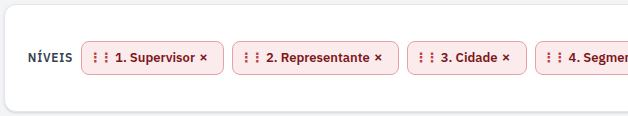
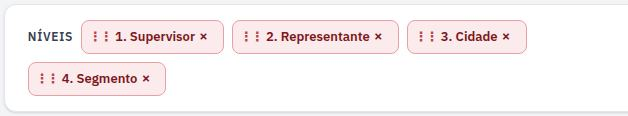
Explorar pedidos: níveis com nome que diz de onde vem a informação
- Supervisor da carteira, Representante do pedido, Representante da carteira, Venda na própria carteira?, Cidade/Segmento/Onda do cliente, Grupo de CNPJ, Tipo/Situação/Mês do pedido
- Excel dos pedidos com os mesmos nomes; Ajuda com os termos novos
- Níveis e disponíveis dividem a linha conforme o tamanho

Changed region(s): [[0.0303, 0.1552, 1.0, 0.8276]]

diff --git a/web/js/telas/_pedidos-excel.js b/web/js/telas/_pedidos-excel.js
@@ -6,13 +6,13 @@ import { baixarXlsx } from '../planilhas.js';
 import { documento, valor } from './_pedidos.js';
 
 const NOME_TIPO = { venda: 'Venda', investimento: 'Bonificação', ignorar: 'Não considerado' };
-const NA_LISTA = { propria: 'Na lista', outra: 'Fora da lista' };
+const NA_LISTA = { propria: 'Sim', outra: 'Não' };
 const COLUNAS = [
   { titulo: 'Pedido', valor: (p) => p.numero, largura: 12 }, { titulo: 'Data', valor: (p) => formatar.data(p.data_situacao), largura: 12 },
   { titulo: 'Código', valor: (p) => p.codigo_cliente ?? '', largura: 10 }, { titulo: 'Razão social', valor: (p) => p.razao_social, largura: 40 },
-  { titulo: 'CNPJ', valor: (p) => documento(p.cpf_cnpj), largura: 20 }, { titulo: 'Quem vendeu', valor: rotuloRepresentante, largura: 30 },
-  { titulo: 'Dono da carteira', valor: (p) => [p.dono_codigo, p.dono_nome].filter(Boolean).join(' - '), largura: 30 },
-  { titulo: 'Na lista?', valor: (p) => (p.prospect_id === null ? 'Filial do grupo' : NA_LISTA[p.relacao] ?? ''), largura: 14 },
+  { titulo: 'CNPJ', valor: (p) => documento(p.cpf_cnpj), largura: 20 }, { titulo: 'Representante do pedido', valor: rotuloRepresentante, largura: 30 },
+  { titulo: 'Representante da carteira', valor: (p) => [p.dono_codigo, p.dono_nome].filter(Boolean).join(' - '), largura: 30 },
+  { titulo: 'Venda na própria carteira?', valor: (p) => (p.prospect_id === null ? 'Filial do grupo' : NA_LISTA[p.relacao] ?? ''), largura: 26 },
   { titulo: 'Tipo', valor: (p) => NOME_TIPO[p.tipo] ?? p.tipo, largura: 14 }, { titulo: 'Situação', valor: (p) => p.situacao_descricao ?? '', largura: 18 },
   { titulo: 'Pedido (R$)', valor: (p) => valor(p.valor_pedido), largura: 14 }, { titulo: 'Faturado (R$)', valor: (p) => valor(p.valor_faturado), largura: 14 },
 ];

diff --git a/web/css/app.css b/web/css/app.css
@@ -467,8 +467,7 @@ td.pct { min-width: 96px; }
 .exp-niveis { display: flex; flex-wrap: nowrap; gap: 12px; align-items: stretch; padding: 10px 14px; margin-bottom: 14px; }
 .exp-niveis .zona { flex: 1 1 auto; min-width: 0; display: flex; flex-wrap: wrap; gap: 8px; align-items: center; align-content: center; min-height: 44px; border: 1px dashed transparent; border-radius: 10px; padding: 4px 8px; }
 .exp-niveis .zona:hover { border-color: var(--borda-forte); }
-.exp-niveis .zona:not(.livres) { flex: 0 0 auto; max-width: 70%; }   /* os níveis ficam numa linha; quando falta espaço, quem quebra são os disponíveis */
-.exp-niveis .zona.livres { flex: 1 1 0; background: #F9FAFB; }
+.exp-niveis .zona.livres { background: #F9FAFB; }   /* cabendo, tudo numa linha; faltando espaço, as duas partes dividem a linha conforme o tamanho e quebram dentro delas */
 .exp-niveis .tit { flex: none; white-space: nowrap; font-size: 12px; font-weight: 600; color: #374151; text-transform: uppercase; letter-spacing: .06em; }
 .exp-nivel { flex: none; white-space: nowrap; display: inline-flex; align-items: center; gap: 4px; background: var(--destaque-claro); border: 1px solid #E8A0A4; color: var(--destaque-escuro); border-radius: 8px; padding: 0 0 0 7px; font-size: 13px; font-weight: 600; min-height: 34px; cursor: grab; user-select: none; }
 .exp-nivel.livre { background: #fff; border-color: var(--borda-forte); color: #374151; font-weight: 500; padding-right: 8px; }

diff --git a/docs/03-regras-negocio.md b/docs/03-regras-negocio.md
@@ -186,7 +186,7 @@ voltar da ficha, do lote ou pelo menu) e a lista já lida vem do cache (`lerComC
 limpa), sem ler o banco de novo. "Limpar filtros" abre a lista limpa (`?limpo=1`). Explorar carteira, Explorar pedidos,
 Acompanhamento e Rejeitados voltam com a linha escolhida, as linhas abertas e o tipo/etapa.
 
-**Níveis da hierarquia** (Explorar carteira, Explorar pedidos, Acompanhamento e Rejeitados): Níveis e Disponíveis numa linha só, lado a lado; os níveis ficam numa linha (até 70% da largura) e, se faltar espaço, os disponíveis quebram dentro da parte deles, sem rolagem para o lado.
+**Níveis da hierarquia** (Explorar carteira, Explorar pedidos, Acompanhamento e Rejeitados): Níveis e Disponíveis numa linha só, lado a lado; cabendo, tudo numa linha; faltando espaço, as duas partes dividem a linha conforme o tamanho e quebram dentro delas, sem rolagem para o lado. No Explorar pedidos, o nome do nível diz de onde vem a informação: Supervisor da carteira, Representante do pedido, Representante da carteira, Venda na própria carteira?, Cidade/Segmento/Onda do cliente, Grupo de CNPJ, Tipo, Situação e Mês do pedido.
 
 **Municípios, rota e subrota em maiúsculas** (0027, 0028): ficam sempre em maiúsculas, com acento, inclusive nos baixados; a importação da base já grava assim. **Segmento:** "Atacado Perueiro" passa a ser "Atacado" (também nas próximas importações).
 
